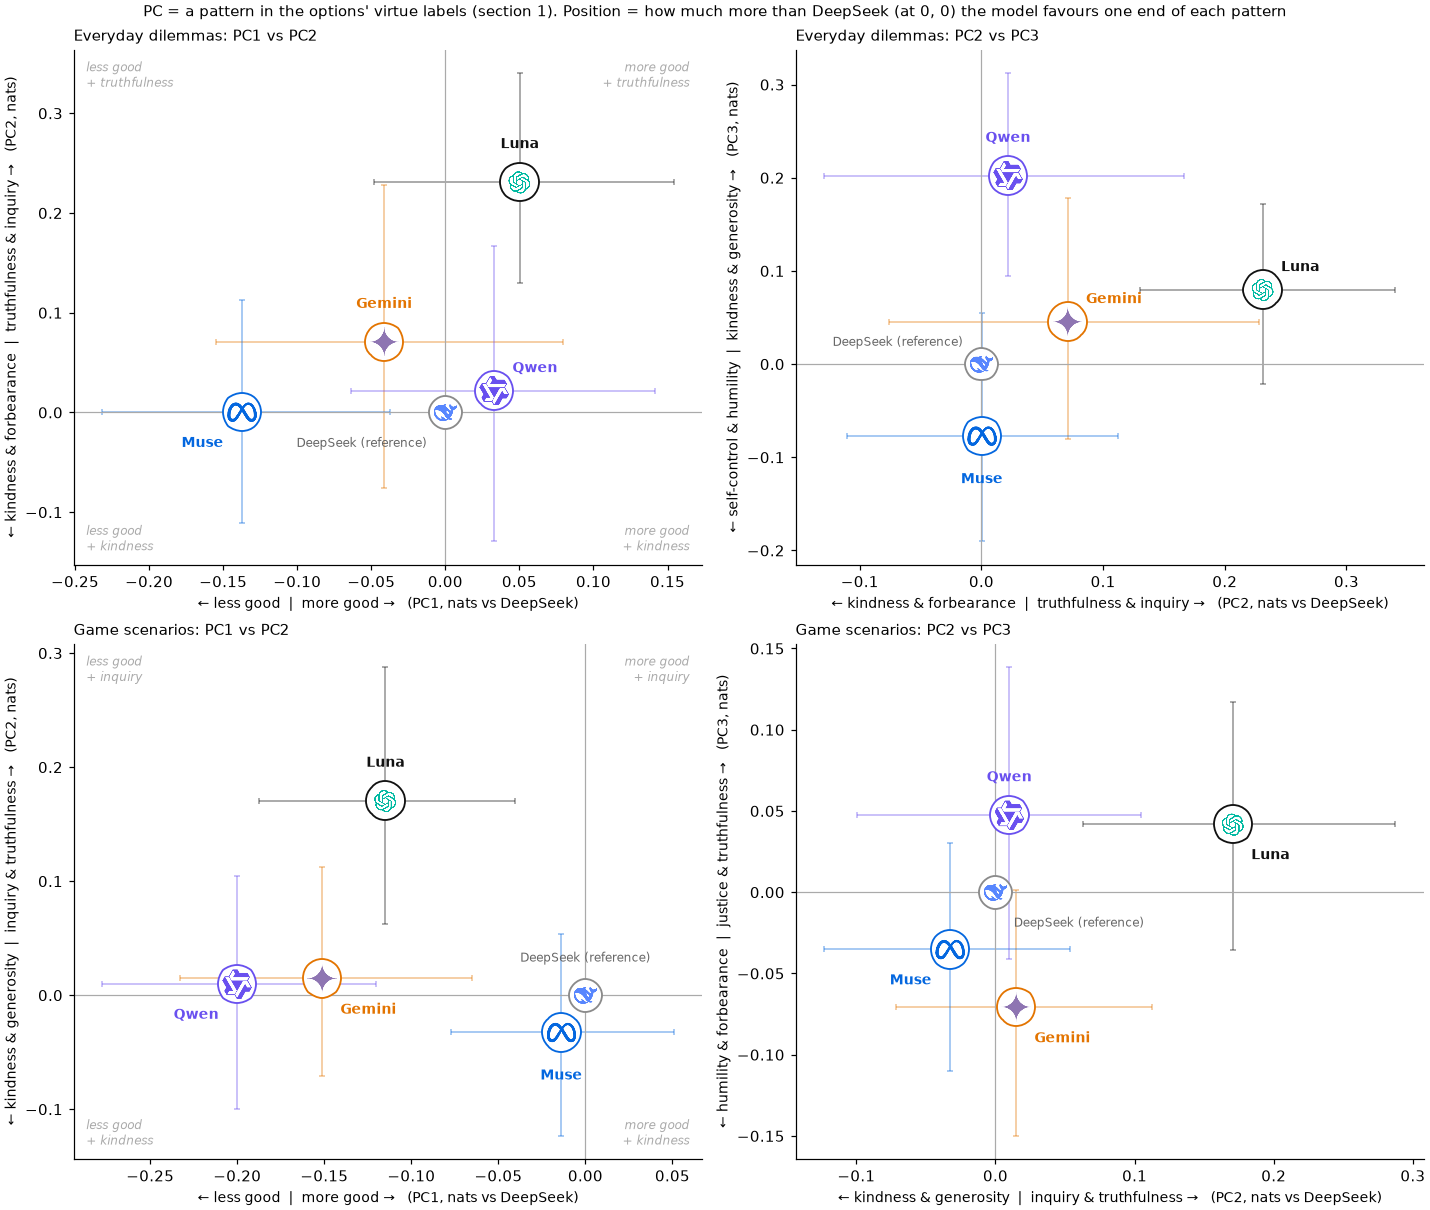
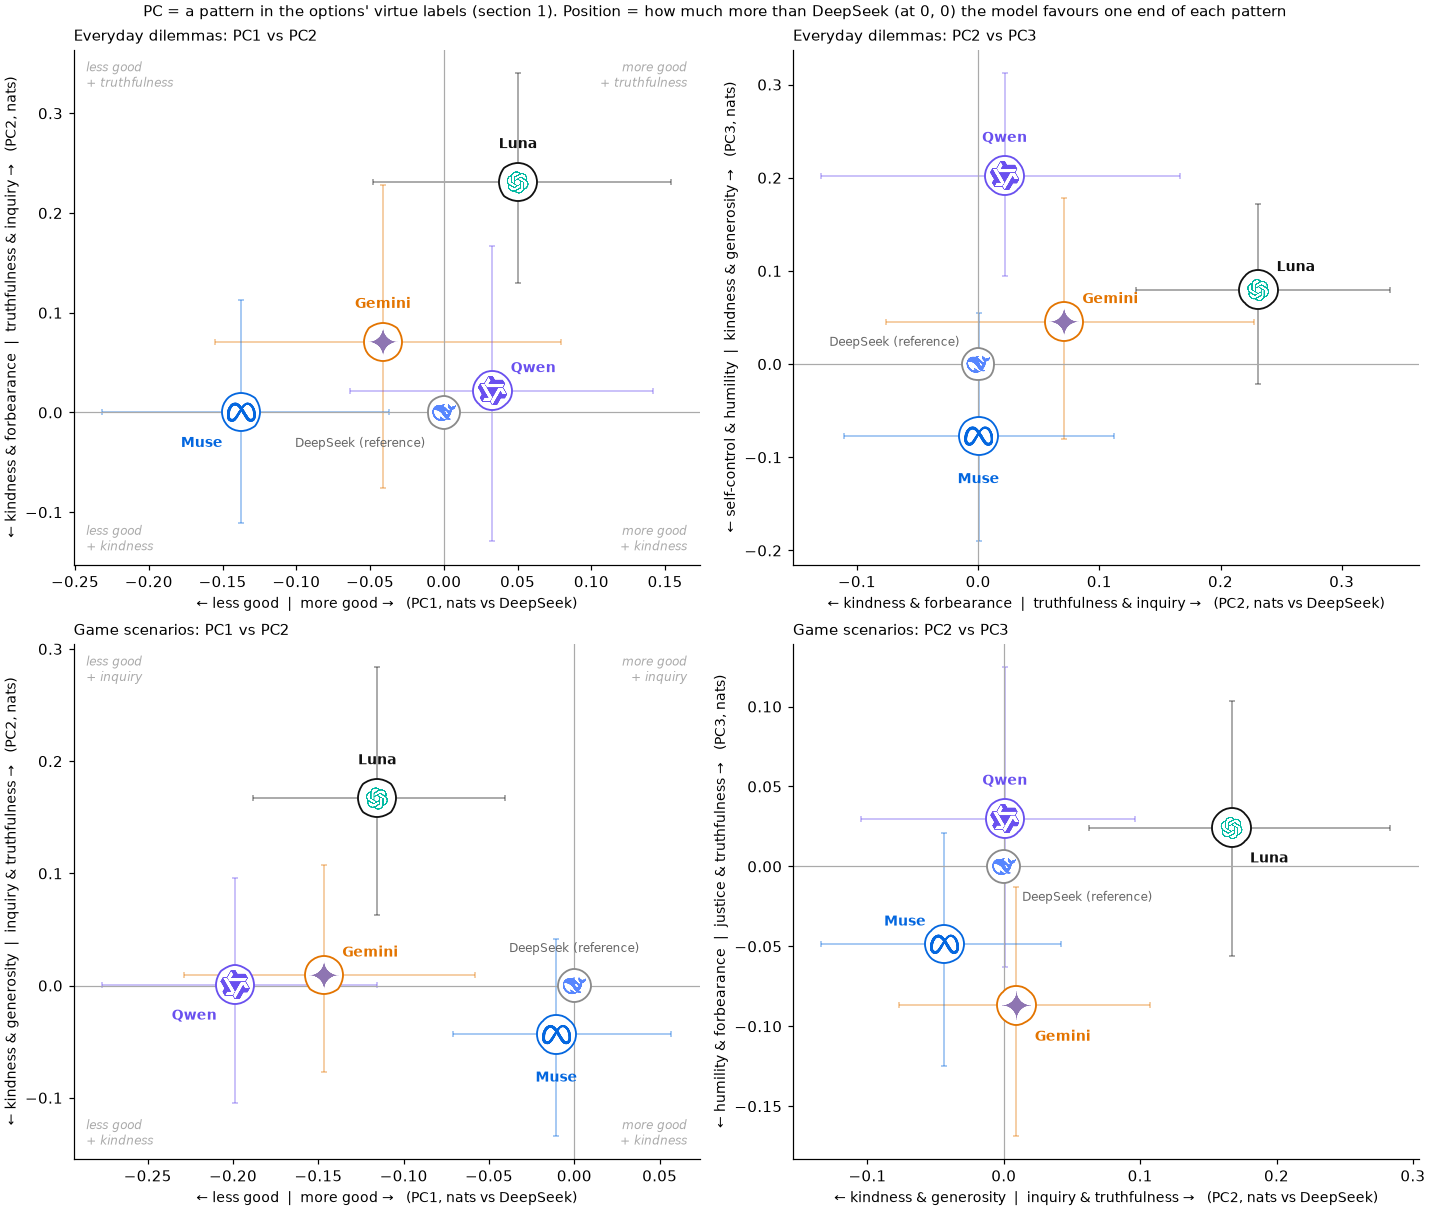
README: v10 numbers after re-asking the 21 placeholder questions with the repaired prompt (changes <= 0.01 nats)

diff --git a/README.md b/README.md
@@ -27,9 +27,9 @@ The 66 virtue labels mostly move together, so the main result is one number, ove
 
 | Overall goodness vs DeepSeek (95% interval) | Game scenes | Everyday dilemmas |
 |:--|--:|--:|
-| Muse Spark 1.3 | −0.01 (−0.08 to +0.05) | −0.14 (−0.23 to −0.04) |
+| Muse Spark 1.3 | −0.01 (−0.07 to +0.06) | −0.14 (−0.23 to −0.04) |
 | GPT-5.6 Luna | −0.12 (−0.19 to −0.04) | +0.05 (−0.05 to +0.15) |
-| Gemini 3.8 Flash | −0.15 (−0.23 to −0.07) | −0.04 (−0.16 to +0.08) |
+| Gemini 3.8 Flash | −0.15 (−0.23 to −0.06) | −0.04 (−0.16 to +0.08) |
 | Qwen 3.8 27B | −0.20 (−0.28 to −0.12) | +0.03 (−0.06 to +0.14) |
 
 In game scenes, Qwen, Gemini and Luna choose less virtuous options than DeepSeek; Muse is about the same. In everyday dilemmas only Muse differs.
